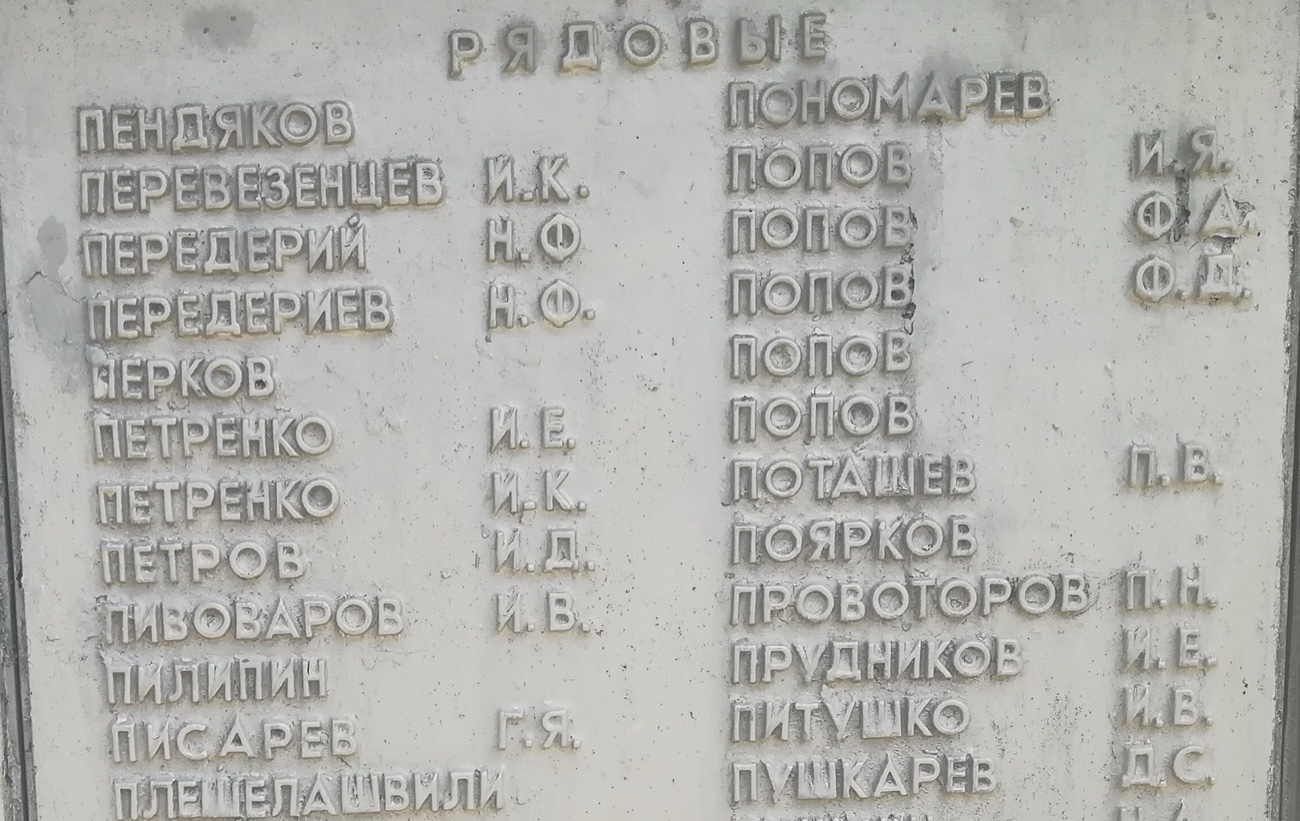
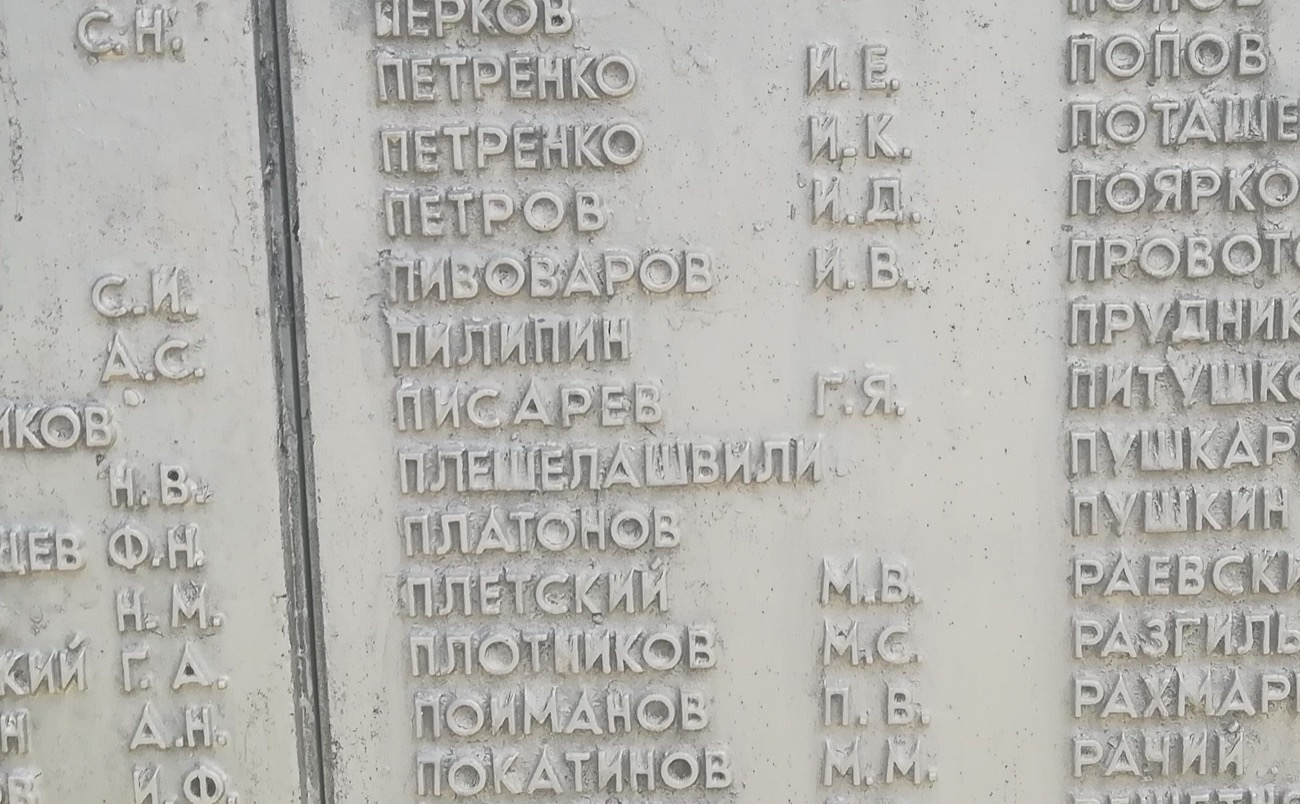
dev: check and correct sources (photos and letters)

diff --git a/docs/sources/photos/F1004-krasnyy-oskol-bratskaya-mogila-2020.md b/docs/sources/photos/F1004-krasnyy-oskol-bratskaya-mogila-2020.md
@@ -4,7 +4,7 @@ source_type: photo
 title: "2020 Братская могила в с. Оскол (бывш. Красный Оскол) и мемориальная доска с именем Г. Я. Писарева, 28 июня"
 document_date: "2020-06-28"
 evidence_kind: "primary"
-photographer: "Павел П."
+photographer: "Павел"
 related_people:
   - P1007
 accessed: "2026-10-11"
@@ -12,31 +12,17 @@ accessed: "2026-10-11"
 
 # 2020 Братская могила в с. Оскол (бывш. Красный Оскол), 28 июня (F1004)
 
-Два снимка, сделанные Павлом П., автором сайта и внуком Г. Я. Писарева, 28 июня 2020 г., когда он нашёл и посетил братскую могилу, где похоронен его дед [Г. Я. Писарев](P1007). Село Красный Оскол Изюмского района Харьковской области с 2016 г. называется Оскол.
+Два снимка, сделанные Павлом, автором сайта и внуком Г. Я. Писарева, 28 июня 2020 г., когда он нашёл и посетил братскую могилу, где похоронен его дед [Г. Я. Писарев](P1007). Село Красный Оскол Изюмского района Харьковской области с 2016 г. называется Оскол.
 
 ## Мемориал
 
 ![Мемориал у братской могилы в с. Оскол, 2020 г.](../../assets/images/places/krasnyy-oskol-bratskaya-mogila-2020.jpg)
 
-Вдоль мощёной дорожки тянется длинная стена с плитами, на которых выбиты имена похороненных. Перед ней — два белых обелиска на чёрных постаментах, несколько отдельных надгробий и чёрная гранитная стела с гравировкой: солдат с плащ-палаткой держит на руках ребёнка (по мотивам памятника воину-освободителю в Трептов-парке, Берлин). За стелой виден край второй стелы с надписью на русском языке; в кадр попали только начала строк.
+Вдоль мощёной дорожки тянется длинная стена с плитами, на которых выбиты имена похороненных. Перед ней — два белых обелиска на чёрных постаментах, несколько отдельных надгробий и чёрная гранитная стела с гравированным изображением солдата (на снимке видна частично). За стелой виден край второй стелы с надписью на русском языке; в кадр попали только начала строк.
 
-Ближний обелиск поставлен не воинам 1943 г., а членам сельского ревкома, погибшим в 1920 г. (во время Гражданской войны). Надпись на нём (на украинском языке; прочтение составителем по снимку):
+Ближний обелиск поставлен не воинам 1943 г., а членам сельского ревкома, погибшим в 1920 г. (во время Гражданской войны).
 
-> | Строка | Текст |
-> |---|---|
-> | 1 | Вшановуємо пам'ять звірськи забитих товаришів, які загинули в 1920 році за справу пролетарської революції в селі Червоний Оскіл. |
-> | 2 | Скрипка Павло Карпович, народження 1890 р. — голова Червонооскільського ревкому. |
-> | 3 | Кижняк Степан Петрович, народження 1894 р. — член сільського ревкому. |
-> | 4 | Спіть спокійно, дорогі товариші. Почата вами справа буде доведена до переможного кінця. |
-
-Перевод: «Чтим память зверски убитых товарищей, погибших в 1920 году за дело пролетарской революции в селе Красный Оскол. Скрипка Павел Карпович, 1890 г. р. — председатель Краснооскольского ревкома. Кижняк Степан Петрович, 1894 г. р. — член сельского ревкома. Спите спокойно, дорогие товарищи. Начатое вами дело будет доведено до победного конца».
-
-Пояснения к прочтению:
-
-- Ревком — революционный комитет, временный орган советской власти в годы Гражданской войны.
-- Год «1920» в первой строке читается неуверенно.
-- На надгробии за обелиском — портрет в генеральской форме и надпись «Генерал-майор Онуфриев Александр Алексеевич»; даты под именем на снимке не читаются.
-- Учётная карточка 1991 г. описывает братскую могилу как железобетонный обелиск со звездой высотой 2,27 м [A1040]. Стена с именными плитами и гранитные стелы на снимке 2020 г. в ней не упомянуты — вероятно, мемориал перестраивали после 1991 г.
+Учётная карточка 1991 г. описывает братскую могилу как железобетонный обелиск со звездой высотой 2,27 м [A1040]. Стена с именными плитами и гранитные стелы на снимке 2020 г. в ней не упомянуты — вероятно, мемориал перестраивали после 1991 г.
 
 ## Мемориальная доска
 
@@ -59,9 +45,9 @@ accessed: "2026-10-11"
 
 Пояснения к прочтению:
 
-- Соседние фамилии идут в том же порядке, что и в поимённом списке захоронения 1991 г. (№ 534–540: Пивоваров, Пилипин, Писарев, Писклов, Пкешевашвили, Платонов, Плетский) [A1040]. Сержанта Писклова на плите рядовых нет — младшие командиры, видимо, перечислены на другой плите. Грузинская фамилия в списке напечатана «Пкешевашвили», на плите — «Плешелашвили».
+- Соседние фамилии идут в том же порядке, что и в поимённом списке захоронения 1991 г. (№ 534–540: Пивоваров, Пилипин, Писарев, Писклов, Пкешевашвили, Платонов, Плетский) [A1040]. Сержанта Писклова на плите рядовых нет — младшие командиры, видимо, перечислены на другой плите.
 
-Файлы в личной коллекции Павла П.: `IMG_20200628_123600.jpg` (мемориал; для сайта обрезан справа) и `IMG_20200628_123202.jpg` (плита).
+Файлы в личной коллекции Павла: `IMG_20200628_123600.jpg` (мемориал; для сайта обрезан справа) и `IMG_20200628_123202.jpg` (плита).
 
 ## Связанные персоны
 

diff --git a/docs/sources/photos/F1003-pisarev-dyatlovo-1940.md b/docs/sources/photos/F1003-pisarev-dyatlovo-1940.md
@@ -11,25 +11,23 @@ accessed: "2026-10-11"
 
 # 1940 Фотография Г. Я. Писарева и С. П. Кузьмина, пос. Дятлово (F1003)
 
-![Г. Я. Писарев, 1940 г.](../../assets/images/people/pisarev-grigoriy-1940.jpg){ width="300" }
-
-*Фрагмент снимка: Григорий Яковлевич Писарев.*
-
 ![Надпись на обороте](../../assets/images/people/pisarev-grigoriy-1940-oborot.jpg){ width="320" }
 
-Снимок сделан в посёлке Дятлово (ныне Нелидовский район Тверской области) в 1940 г.: на нём Г. Я. Писарев и Сергей Кузьмин. Молодой человек в кепке, очках, пиджаке и светлой вязаной рубашке, на лацкане — значок.
+Снимок сделан в посёлке Дятлово (ныне Нелидовский район Тверской области) в 1940 г.: на нём Г. Я. Писарев и Сергей Кузьмин. Лицевая сторона снимка на сайте не публикуется — у составителя есть фото; здесь показан оборот с надписью.
 
 Надпись на обороте (карандаш, год — чернилами; прочтение составителем по скану):
 
-> | Строка | Текст |
-> |---|---|
-> | 1 | Писарев Григорий |
-> | 2 | Яковлевич |
-> | 3 | Кузмин Сергей |
-> | 4 | Пименович [?] |
-> | 5 | фотографировались |
-> | 6 | в пос. Дятлово |
-> | 7 | 1940 году |
+<div class="narrow-quote" markdown>
+
+> Писарев Григорий<br>
+> Яковлевич<br>
+> Кузмин Сергей<br>
+> Пименович [?]<br>
+> фотографировались<br>
+> в пос. Дятлово<br>
+> 1940 года
+
+</div>
 
 Пояснения к прочтению:
 

diff --git a/docs/sources/letters/L1002-otkrytka-1942-11-05.md b/docs/sources/letters/L1002-otkrytka-1942-11-05.md
@@ -6,6 +6,7 @@ document_date: "1942-11-05"
 evidence_kind: "primary"
 related_people:
   - P1007
+  - P1080
 accessed: "2026-10-11"
 ---
 
@@ -27,7 +28,7 @@ accessed: "2026-10-11"
 
 - Фиолетовый штамп «Просмотрено военной цензурой» с номером цензора (читается «99», «15»); почтовый штемпель не читается.
 - «Полевая почта 28, в/ч 289» — условный адрес части. Настоящее название подразделения в письмах не указывали.
-- Крутинский район Омской области — в Западной Сибири, далеко в тылу. Почему семья оказалась там, в документах не сказано.
+- Крутинский район Омской области — в Западной Сибири, далеко в тылу.
 
 ## Текст
 
@@ -49,3 +50,4 @@ accessed: "2026-10-11"
 ## Связанные персоны
 
 - [P1007]
+- [P1080]

diff --git a/docs/sources/photos/F1002-pisarev-orlov-1932.md b/docs/sources/photos/F1002-pisarev-orlov-1932.md
@@ -17,6 +17,8 @@ accessed: "2026-10-11"
 
 Надпись на обороте (чернила; прочтение составителем по скану):
 
+<div class="narrow-quote" markdown>
+
 > На память<br>
 > снявши два това[рища]<br>
 > Петр Никитьевич<br>
@@ -28,6 +30,8 @@ accessed: "2026-10-11"
 > На вечную и до-<br>
 > гую<br>
 > Память
+
+</div>
 
 Пояснения к прочтению:
 

diff --git a/docs/sources/letters/L1000-pismo-1942-06-21.md b/docs/sources/letters/L1000-pismo-1942-06-21.md
@@ -6,6 +6,7 @@ document_date: "1942-06-21"
 evidence_kind: "primary"
 related_people:
   - P1007
+  - P1080
 accessed: "2026-10-11"
 ---
 
@@ -42,3 +43,4 @@ accessed: "2026-10-11"
 ## Связанные персоны
 
 - [P1007]
+- [P1080]

diff --git a/docs/sources/letters/L1001-pismo-1942-09-10.md b/docs/sources/letters/L1001-pismo-1942-09-10.md
@@ -6,6 +6,7 @@ document_date: "1942-09-10"
 evidence_kind: "primary"
 related_people:
   - P1007
+  - P1080
 accessed: "2026-10-11"
 ---
 
@@ -41,3 +42,4 @@ accessed: "2026-10-11"
 ## Связанные персоны
 
 - [P1007]
+- [P1080]
